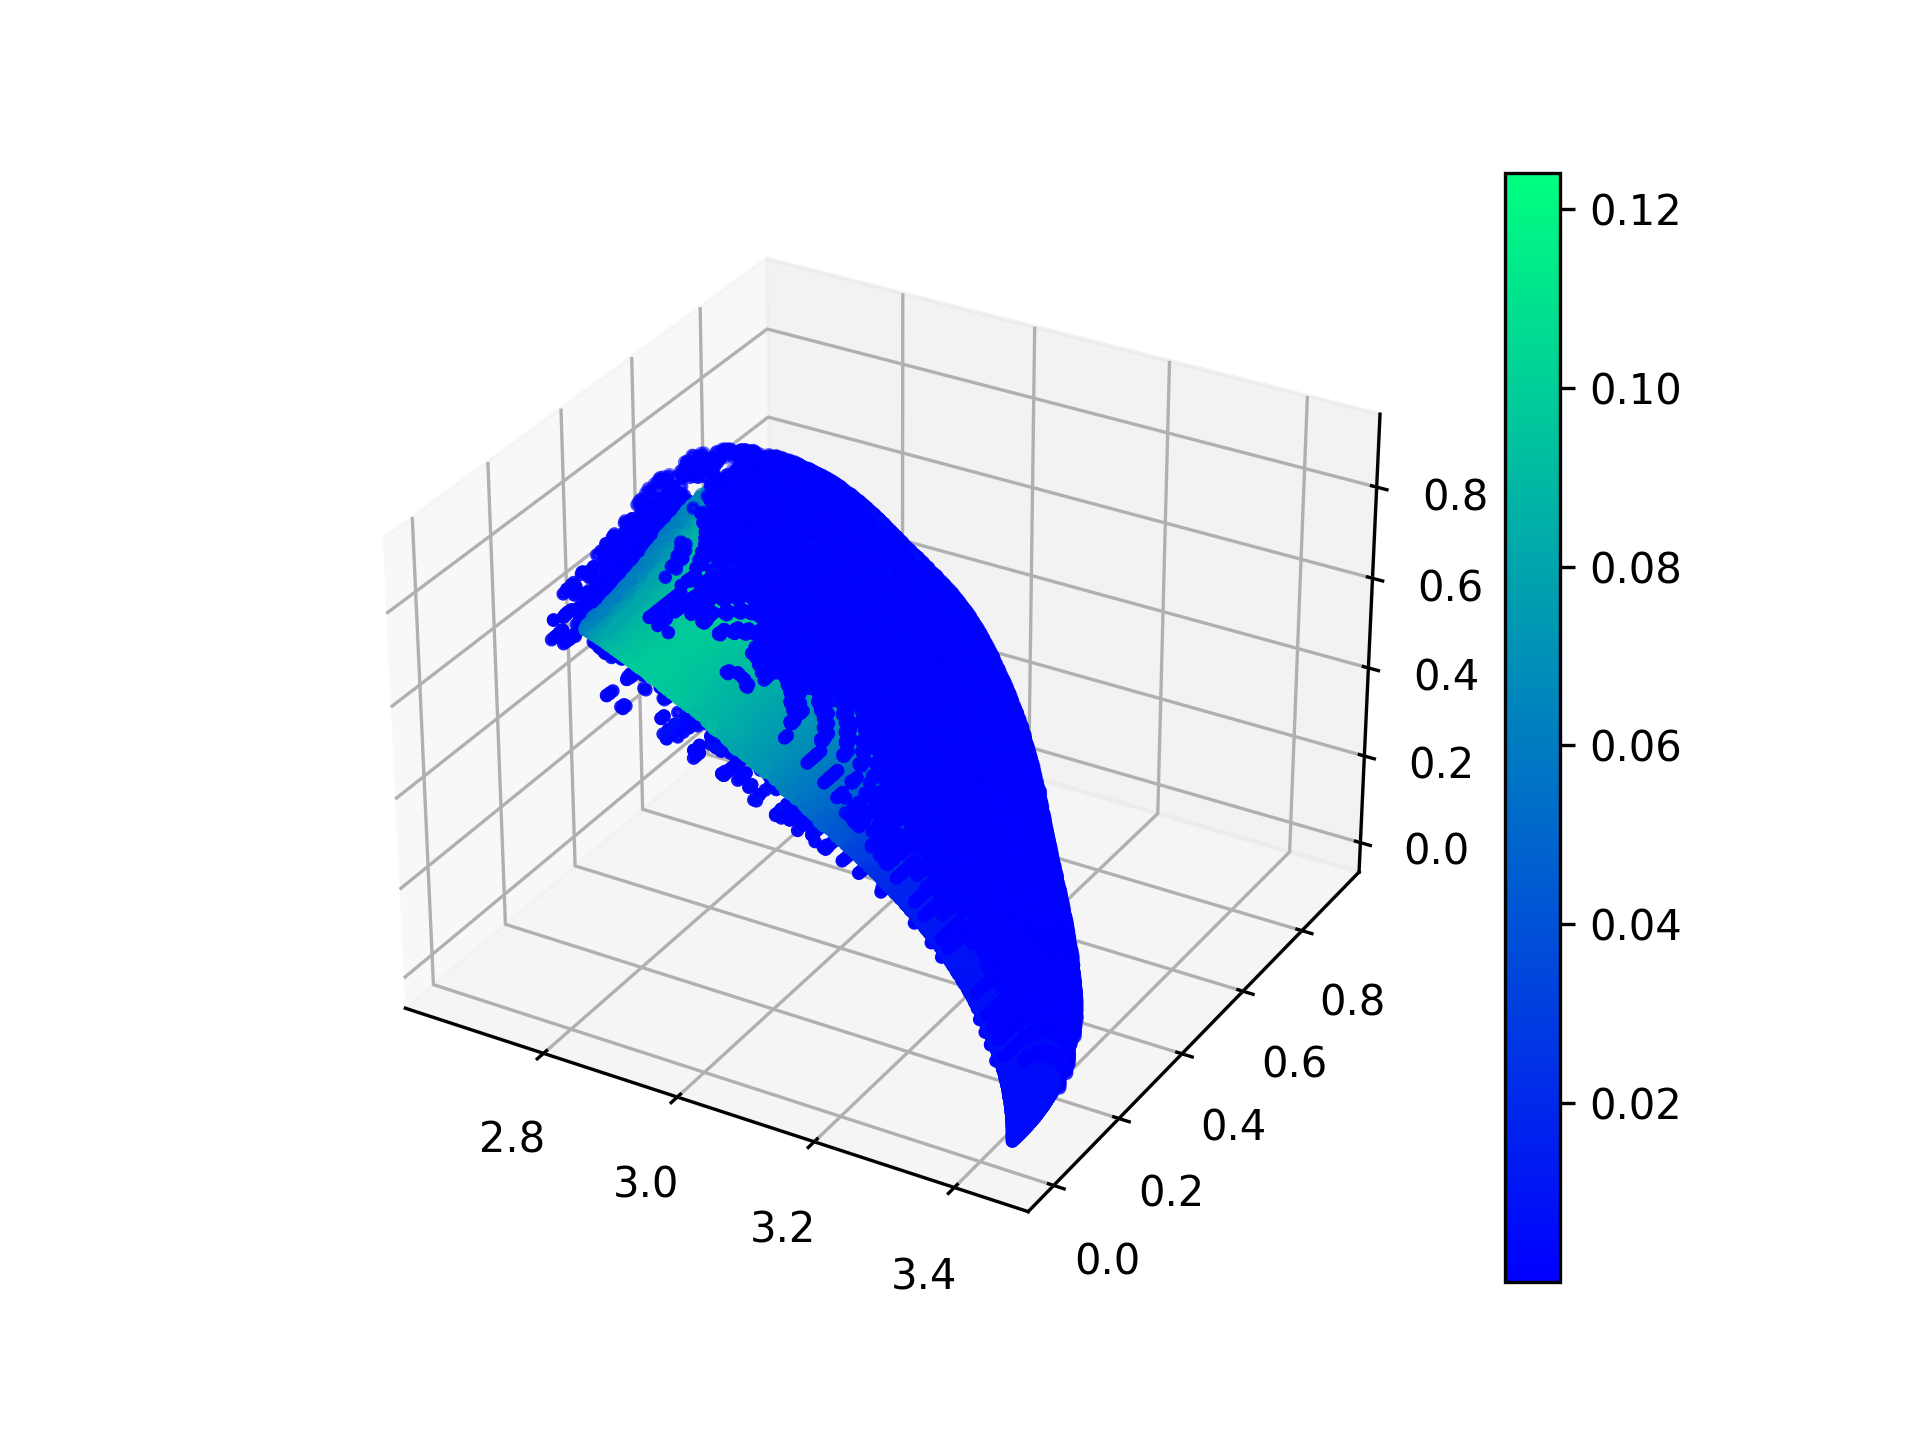
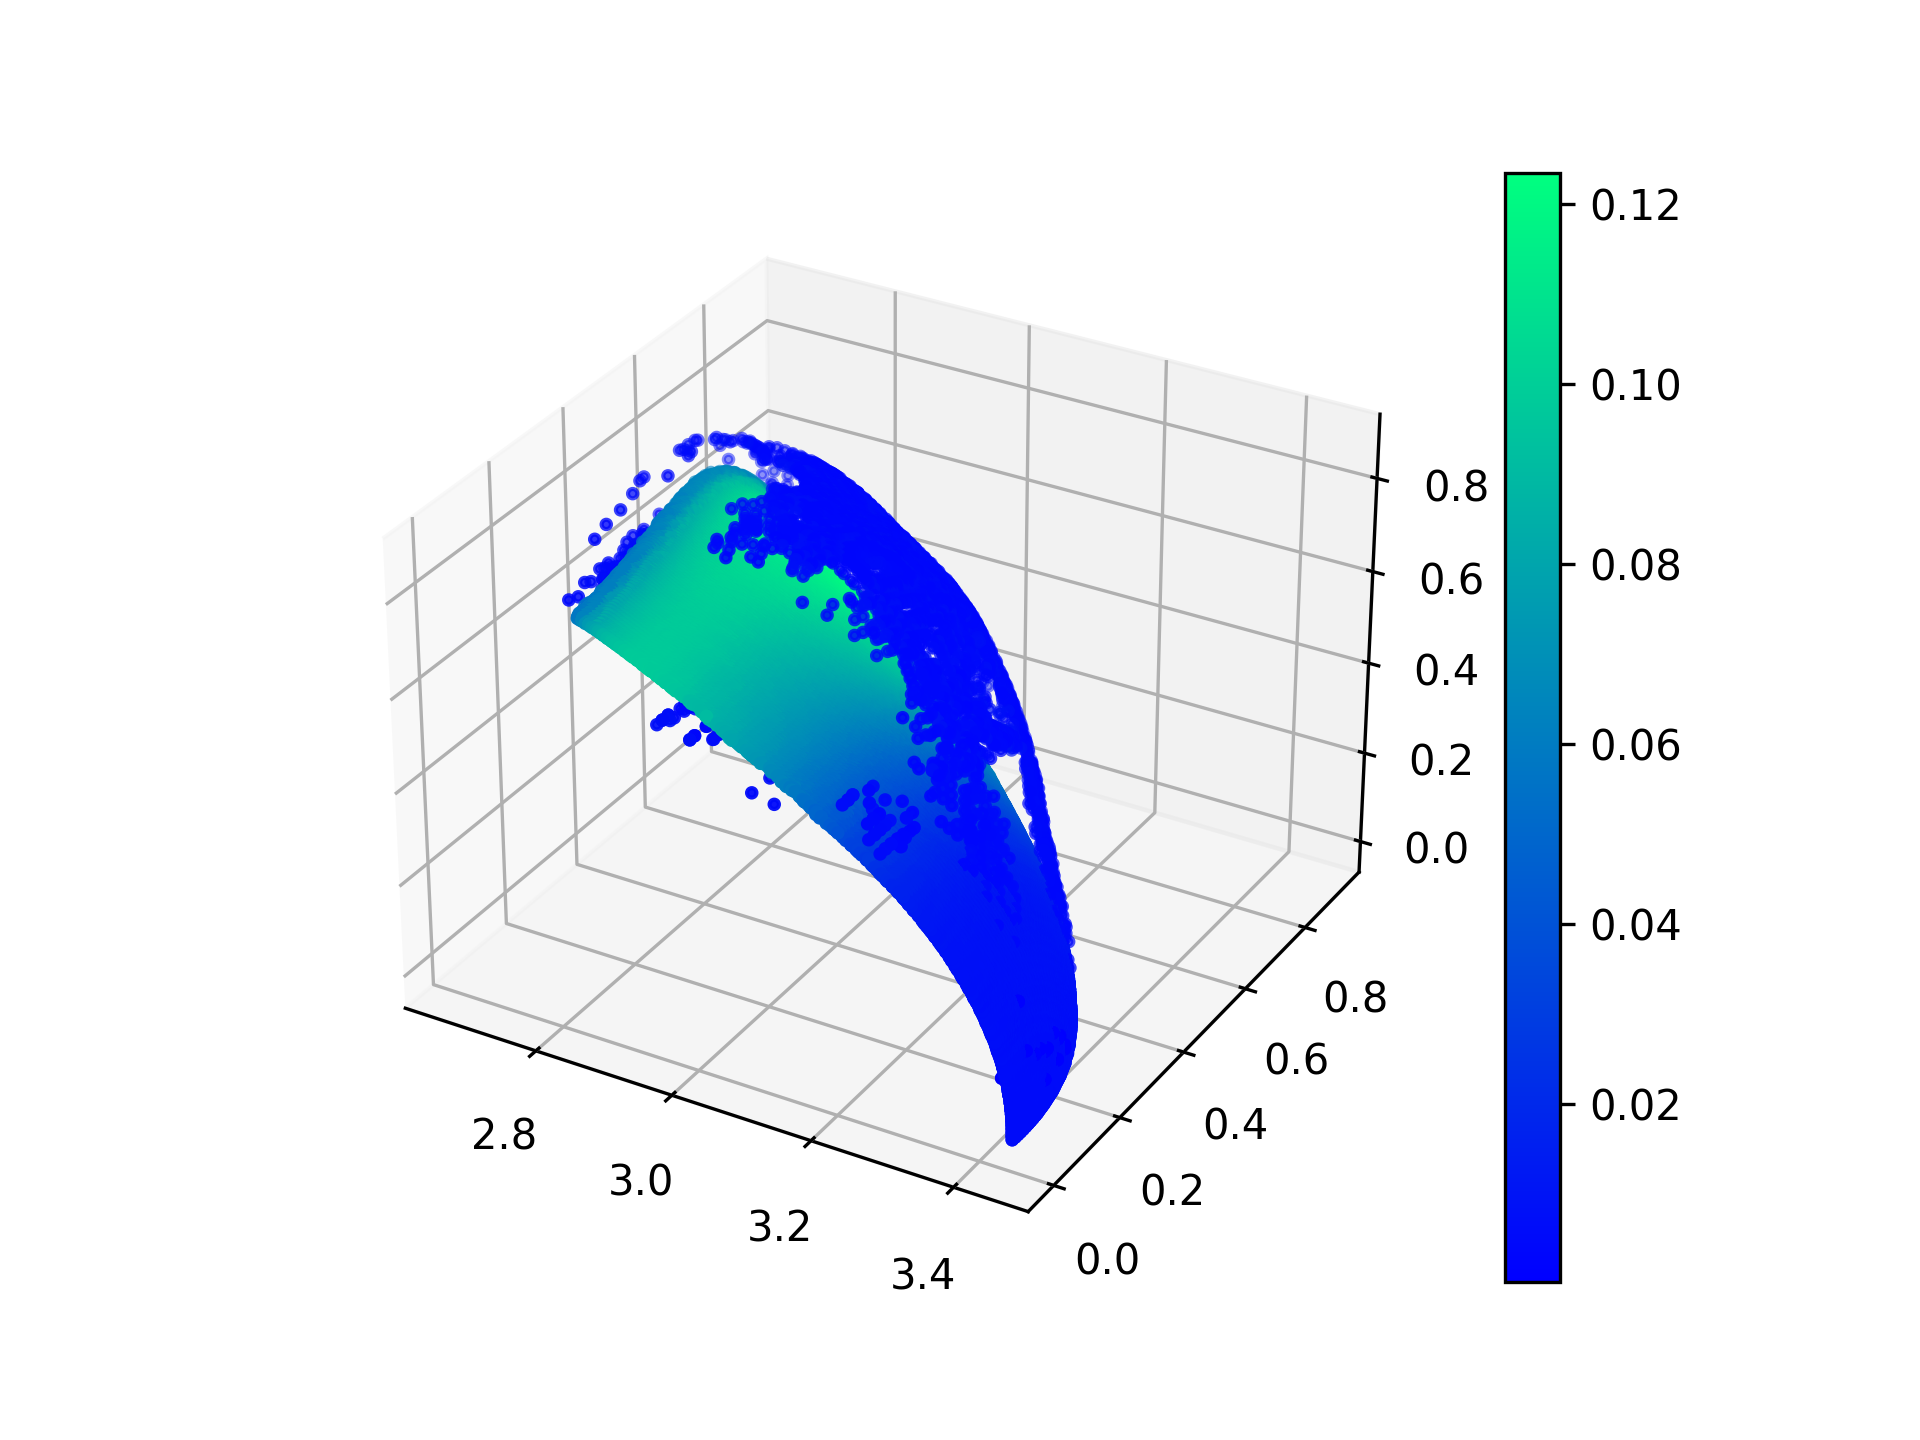
run8

diff --git a/SkeleNet.py b/SkeleNet.py
@@ -223,7 +223,7 @@ def skeletize(points : list,norms : list,threshDistance : float,tree : kdTree,an
                 
                 #Then if we fall too close to the interface, but the cross isnt there either. Should alllow us to see thin areas well..
                 #Keeps us inside shape at the very least. usually getting too small happens past mid point//
-                elif dist < tempr[leng] + threshDistance: 
+                elif dist < tempr[leng] + 10*threshDistance: 
                     SkelePoints.append(centerp[leng - 1])
                     SkeleRad.append(getDistance(point,centerp[leng - 1]))
                     #if SkeleRad[len(SkeleRad)-1] > 0.3:
@@ -239,6 +239,15 @@ def skeletize(points : list,norms : list,threshDistance : float,tree : kdTree,an
                         atp[index].append(testp[leng - 1])
                         arad[index].append(SkeleRad[len(SkeleRad) - 1])
                     case = True
+                elif tempr[leng] < 10*threshDistance and crossdis < 10*threshDistance:
+                    SkelePoints.append(centerp[leng - 1])
+                    SkeleRad.append(getDistance(point,centerp[leng - 1]))
+                    if animate:
+                        acp[index].append(SkelePoints[len(SkelePoints) - 1])
+                        atp[index].append(testp[leng - 1])
+                        arad[index].append(SkeleRad[len(SkeleRad) - 1])
+                    case = True
+
             #Check if the distance is way too far inside
             if i > 0 and dist < 10*threshDistance and crossdis > 10*threshDistance and not(case):
                 SkelePoints.append(centerp[leng - 1])
